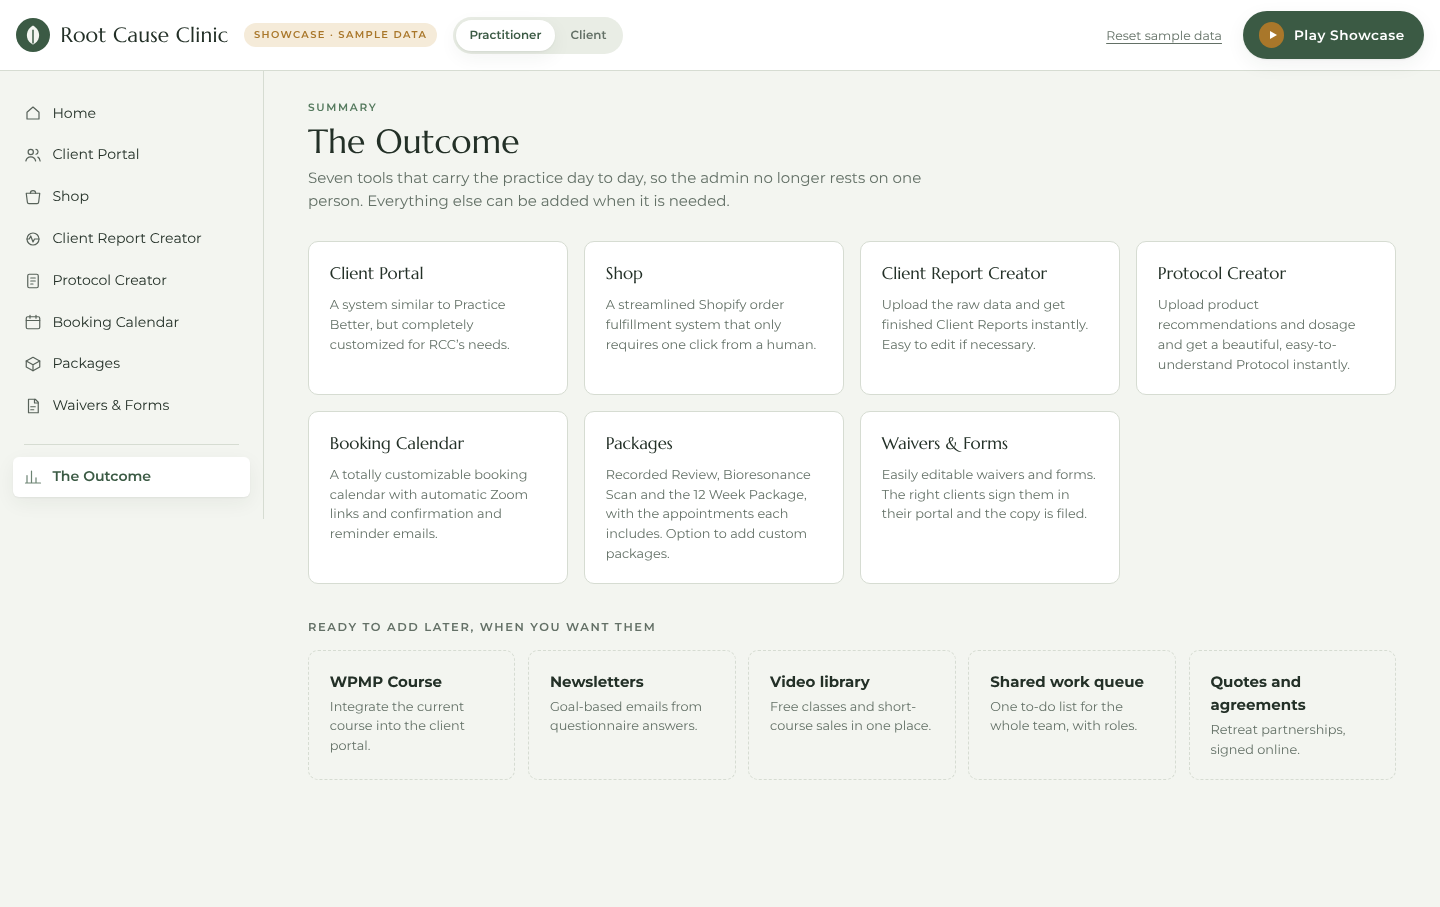
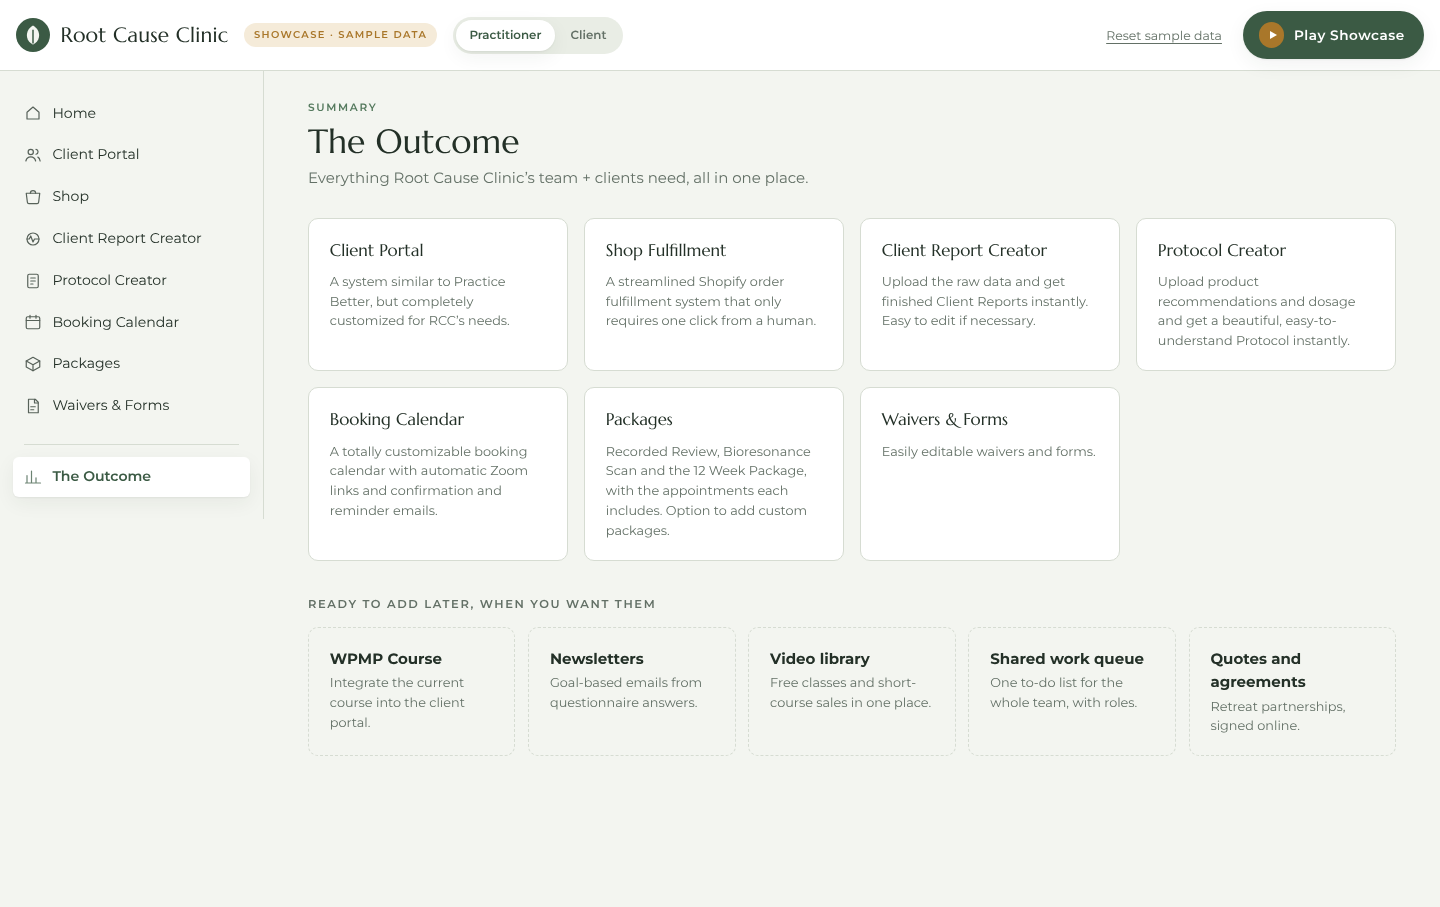
Outcome: new intro line, Shop Fulfillment card, shorter Waivers & Forms text
Claude-Session: https://claude.ai/code/session_01EwNMrWnEybqWDGAUGNxHog

diff --git a/public/outcome.js b/public/outcome.js
@@ -16,15 +16,15 @@
   ];
 
   function view() {
-    return '<p class="eyebrow">Summary</p><h1 class="h1">The Outcome</h1><p class="lede">Seven tools that carry the practice day to day, so the admin no longer rests on one person. Everything else can be added when it is needed.</p>' +
+    return '<p class="eyebrow">Summary</p><h1 class="h1">The Outcome</h1><p class="lede">Everything Root Cause Clinic’s team + clients need, all in one place.</p>' +
       '<div class="grid" style="grid-template-columns:repeat(auto-fit,minmax(15rem,1fr));margin-bottom:1.6rem" data-tour="purposes">' + [
         ['Client Portal', 'A system similar to Practice Better, but completely customized for RCC’s needs.'],
-        ['Shop', 'A streamlined Shopify order fulfillment system that only requires one click from a human.'],
+        ['Shop Fulfillment', 'A streamlined Shopify order fulfillment system that only requires one click from a human.'],
         ['Client Report Creator', 'Upload the raw data and get finished Client Reports instantly. Easy to edit if necessary.'],
         ['Protocol Creator', 'Upload product recommendations and dosage and get a beautiful, easy-to-understand Protocol instantly.'],
         ['Booking Calendar', 'A totally customizable booking calendar with automatic Zoom links and confirmation and reminder emails.'],
         ['Packages', 'Recorded Review, Bioresonance Scan and the 12 Week Package, with the appointments each includes. Option to add custom packages.'],
-        ['Waivers & Forms', 'Easily editable waivers and forms. The right clients sign them in their portal and the copy is filed.']
+        ['Waivers & Forms', 'Easily editable waivers and forms.']
       ].map(function (x) { return '<div class="card"><h3 class="h3" style="font-size:1.05rem">' + x[0] + '</h3><p class="small muted" style="margin:0">' + x[1] + '</p></div>'; }).join('') + '</div>' +
       '<h2 class="h2">Ready to add later, when you want them</h2><div class="later" data-tour="later">' + LATER.map(function (x) { return '<div class="card"><b>' + x[0] + '</b><p class="small muted" style="margin:.2rem 0 0">' + x[1] + '</p></div>'; }).join('') + '</div>';
   }
